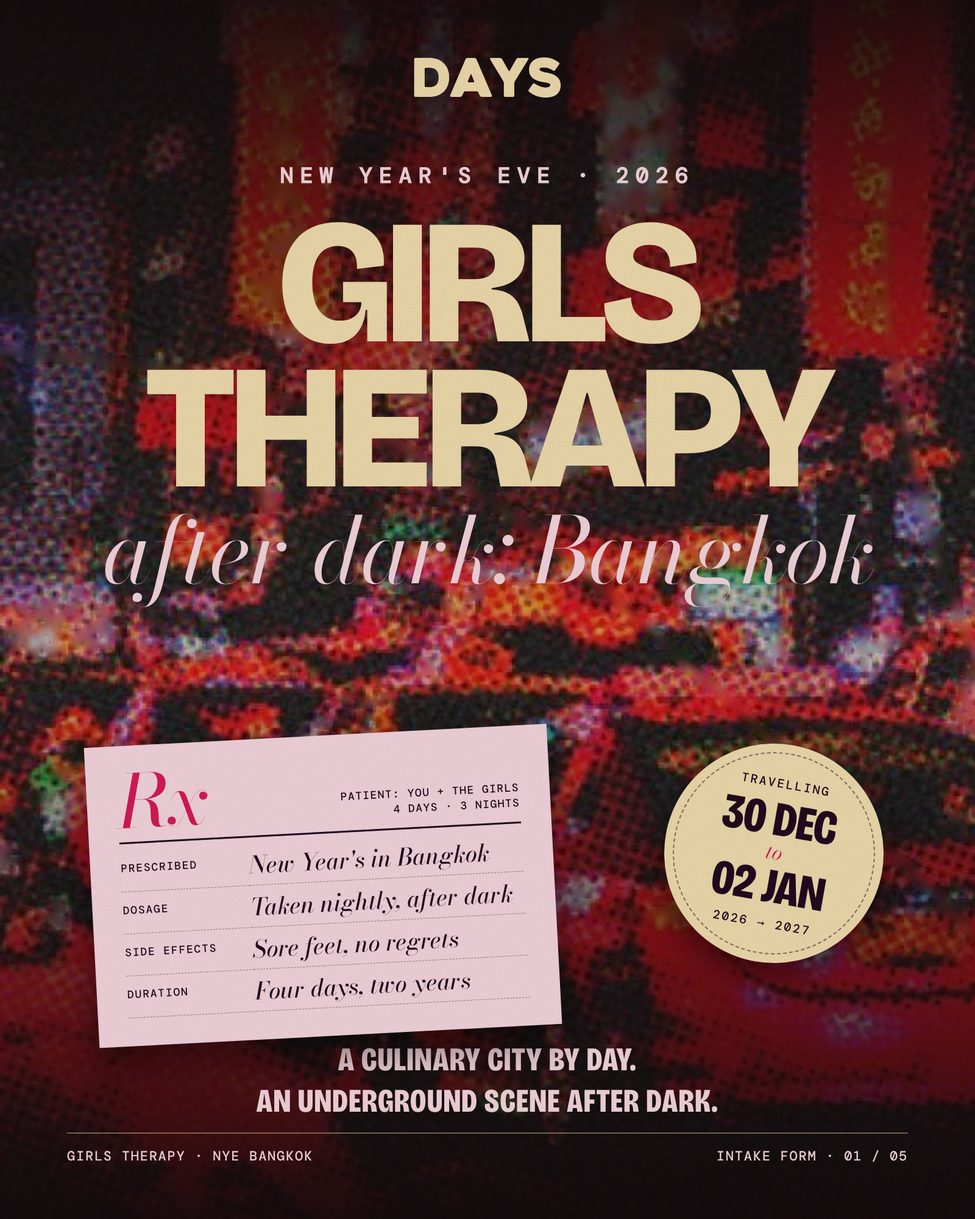
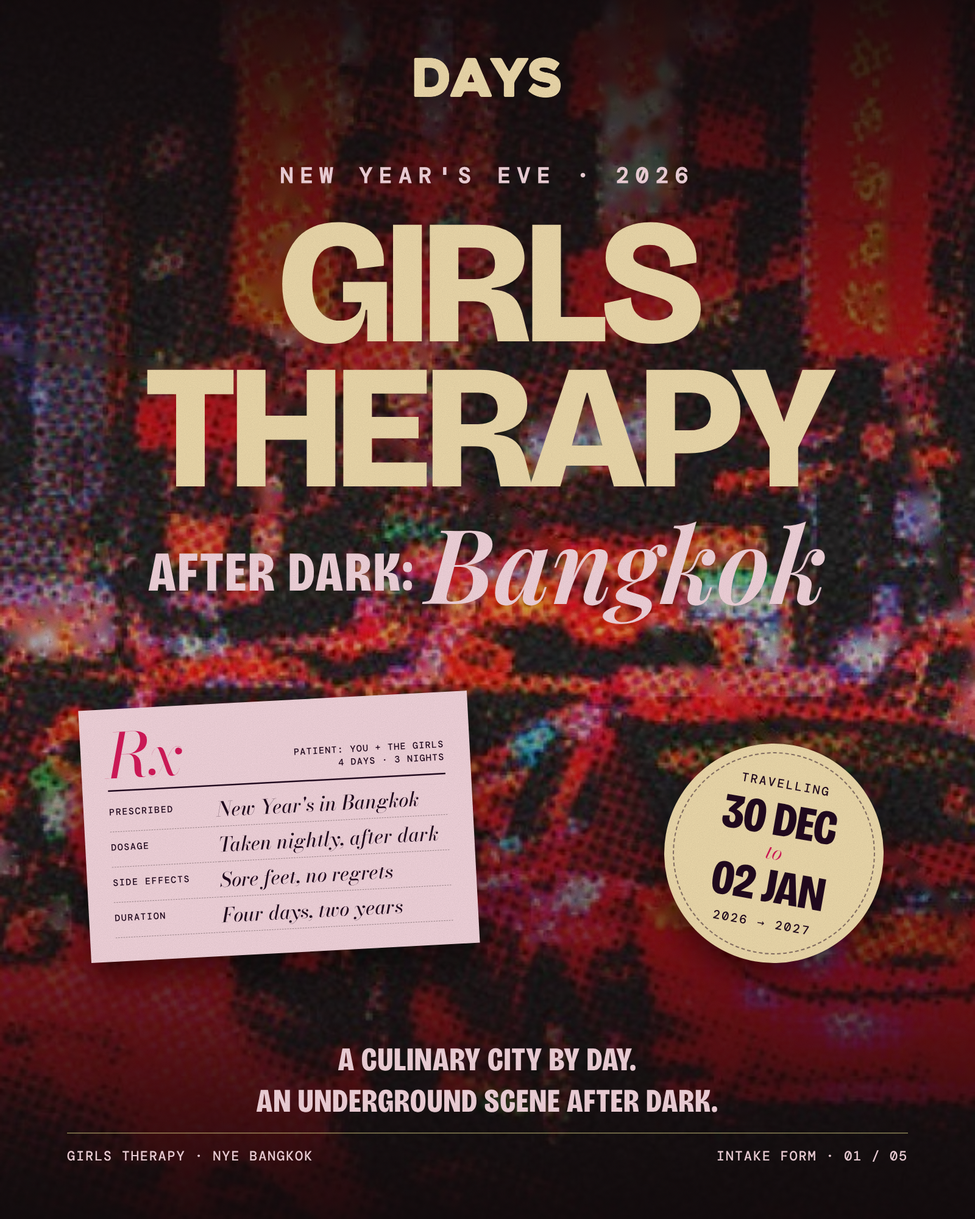
Girls Therapy cover: smaller, higher Rx slip; new subtitle type
Rx slip scaled to 84% and lifted clear of the tagline. Subtitle is now
AFTER DARK: (grotesk caps) + Bangkok (Playfair italic); alternatives
rendered to export/subtitle-options/.

Claude-Session: https://claude.ai/code/session_01Eb5aT3FoWxmWC87W7Yqn3Y

Changed region(s): [[0.0625, 0.558, 0.5938, 0.868], [0.0938, 0.403, 0.9062, 0.527]]

diff --git a/campaigns/girls-therapy-bangkok/render-subtitle.js b/campaigns/girls-therapy-bangkok/render-subtitle.js
@@ -1,0 +1,29 @@
+// Render the cover with alternative treatments of the "after dark: Bangkok" line (export/subtitle-options/).
+const { chromium } = require('playwright');
+const path = require('path');
+const fs = require('fs');
+const variants = {
+  '1-playfair-italic': { html: 'after dark: Bangkok', css: 'font: italic 600 140px/1 "Playfair Display", serif; letter-spacing: -.01em; color: var(--butter);' },
+  '2-caps-plus-italic': { html: '<span style="font: 800 92px/1 \'Bricolage Grotesque\'; font-stretch: 80%; letter-spacing: .04em; vertical-align: 22px; margin-right: 18px">AFTER DARK:</span>Bangkok', css: 'font: italic 600 170px/1 "Playfair Display", serif; color: var(--butter);' },
+  '3-instrument-serif': { html: 'after dark: Bangkok', css: 'font: italic 400 170px/1 "Instrument Serif", serif; letter-spacing: -.01em; color: var(--butter);' },
+  '4-gloock': { html: 'After Dark: Bangkok', css: 'font: 400 128px/1 "Gloock", serif; letter-spacing: -.01em; color: var(--butter);' },
+};
+(async () => {
+  const out = path.join(__dirname, 'export', 'subtitle-options');
+  fs.mkdirSync(out, { recursive: true });
+  const b = await chromium.launch();
+  const p = await b.newPage({ viewport: { width: 1600, height: 2000 } });
+  await p.goto('file://' + path.join(__dirname, 'slides.html'), { waitUntil: 'networkidle' });
+  await p.evaluate(() => document.fonts.ready);
+  const cover = (await p.$$('.slide'))[0];
+  for (const [name, v] of Object.entries(variants)) {
+    await p.evaluate(v => {
+      const el = document.querySelector('.s1 .c2');
+      el.innerHTML = v.html;
+      el.setAttribute('style', v.css + 'display:block; margin-top: 14px;');
+    }, v);
+    await p.evaluate(() => document.fonts.ready);
+    await cover.screenshot({ path: `${out}/${name}.png` });
+  }
+  await b.close();
+})();

diff --git a/campaigns/girls-therapy-bangkok/slides.css b/campaigns/girls-therapy-bangkok/slides.css
@@ -73,11 +73,12 @@ svg.line path { fill: none; stroke-width: 3; }
 .s1 .title .kicker { font: 600 36px/1 "DM Mono", monospace; letter-spacing: .3em; text-transform: uppercase; }
 .s1 .title h1 { font-size: 300px; line-height: .8; color: var(--champ); margin-top: 40px; }
 .s1 .title h1 .c1 { display: block; font: 800 290px/.82 "Bricolage Grotesque", sans-serif; font-stretch: 100%; font-variation-settings: "opsz" 96; letter-spacing: -.035em; }
-.s1 .title h1 .c2 { display: block; font: italic 400 150px/1 "Bodoni Moda", serif; font-variation-settings: "opsz" 96; color: var(--butter); margin-top: 6px; letter-spacing: -.01em; }
+.s1 .title h1 .c2 { display: block; font: italic 600 170px/1 "Playfair Display", serif; color: var(--butter); margin-top: 14px; }
+.s1 .title h1 .c2a { font: 800 92px/1 "Bricolage Grotesque", sans-serif; font-style: normal; font-stretch: 80%; letter-spacing: .04em; text-transform: uppercase; vertical-align: 22px; margin-right: 18px; }
 .rx {
-  position: absolute; z-index: 25; left: 150px; bottom: 300px; width: 760px;
+  position: absolute; z-index: 25; left: 150px; bottom: 420px; width: 760px; transform-origin: left bottom;
   background: var(--butter); color: var(--ink); padding: 44px 50px 46px;
-  transform: rotate(-3deg); box-shadow: 0 30px 60px rgba(0,0,0,.45);
+  transform: rotate(-3deg) scale(.84); box-shadow: 0 30px 60px rgba(0,0,0,.45);
 }
 .rx .hd { display: flex; justify-content: space-between; align-items: flex-end; border-bottom: 3px solid var(--ink); padding-bottom: 18px; }
 .rx .hd .sym { font: 400 120px/0.8 "Bodoni Moda", serif; font-style: italic; color: var(--accent); }

diff --git a/campaigns/girls-therapy-bangkok/slides.html b/campaigns/girls-therapy-bangkok/slides.html
@@ -4,7 +4,7 @@
 <meta charset="utf-8">
 <title>Girls Therapy — New Year's in Bangkok</title>
 <link rel="preconnect" href="https://fonts.googleapis.com">
-<link href="https://fonts.googleapis.com/css2?family=Bricolage+Grotesque:opsz,wdth,wght@12..96,75..100,500..800&family=Bodoni+Moda:ital,opsz,wght@0,6..96,400..800;1,6..96,400..800&family=DM+Sans:opsz,wght@9..40,400..600&family=DM+Mono:wght@400;500&display=swap" rel="stylesheet">
+<link href="https://fonts.googleapis.com/css2?family=Bricolage+Grotesque:opsz,wdth,wght@12..96,75..100,500..800&family=Bodoni+Moda:ital,opsz,wght@0,6..96,400..800;1,6..96,400..800&family=Playfair+Display:ital,wght@1,400..900&family=Instrument+Serif:ital@1&family=Gloock&family=DM+Sans:opsz,wght@9..40,400..600&family=DM+Mono:wght@400;500&display=swap" rel="stylesheet">
 <link rel="stylesheet" href="slides.css">
 </head>
 <body>
@@ -16,7 +16,7 @@
   <div class="logo"></div>
   <div class="title">
     <div class="kicker">New Year's Eve · 2026</div>
-    <h1><span class="c1">GIRLS<br>THERAPY</span><span class="c2">after dark: Bangkok</span></h1>
+    <h1><span class="c1">GIRLS<br>THERAPY</span><span class="c2"><span class="c2a">After dark:</span>Bangkok</span></h1>
   </div>
   <div class="rx">
     <div class="hd"><span class="sym">Rx</span><span class="who">Patient: you + the girls<br>4 days · 3 nights</span></div>
